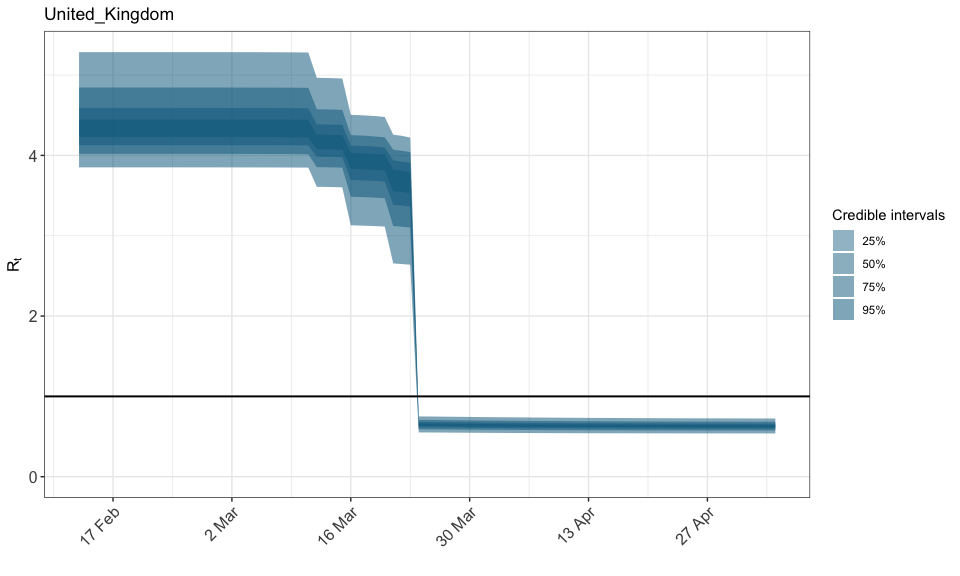
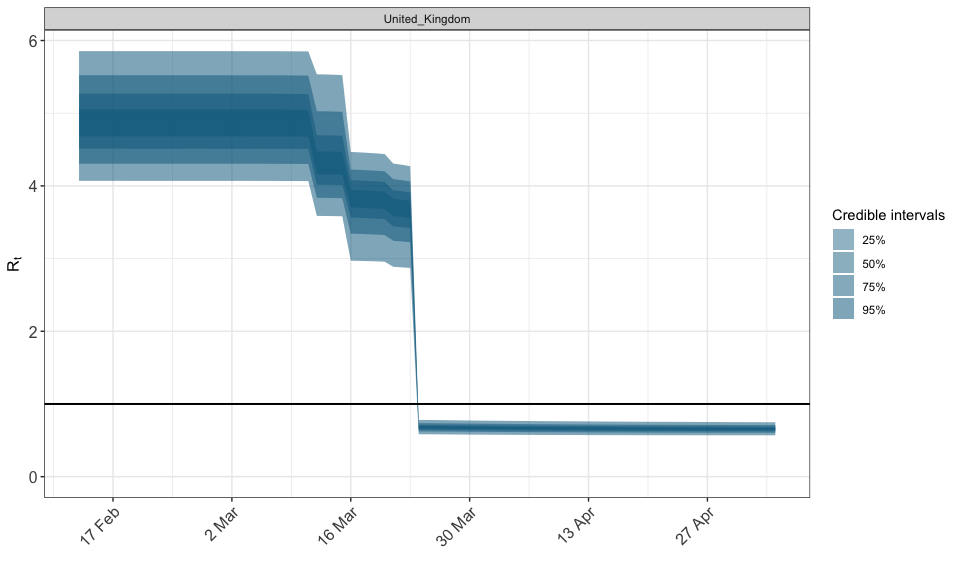
rebuilt vignettes

diff --git a/README.md b/README.md
@@ -22,7 +22,7 @@ data(EuropeCovid)
 
 # Collect args for epim
 args <- EuropeCovid
-args$formula <- R(country, date) ~  0 + schools_universities + self_isolating_if_ill +
+args$formula <- R(country, date) ~ schools_universities + self_isolating_if_ill +
   public_events + lockdown + social_distancing_encouraged
 args$algorithm <- "sampling"
 args$prior <- shifted_gamma(shape = 1/6, scale = 1, shift = -log(1.05)/6)
@@ -32,14 +32,6 @@ args$group_subset <- c("Germany", "United_Kingdom")
 options(mc.cores=parallel::detectCores())
 fit <- do.call("epim", args)
 ```
-
-    ## Warning: Column `group` joining factors with different levels, coercing to
-    ## character vector
-
-    ## Warning: There were 3396 transitions after warmup that exceeded the maximum treedepth. Increase max_treedepth above 10. See
-    ## http://mc-stan.org/misc/warnings.html#maximum-treedepth-exceeded
-
-    ## Warning: Examine the pairs() plot to diagnose sampling problems
 
 ``` r
 # Inspect Rt
